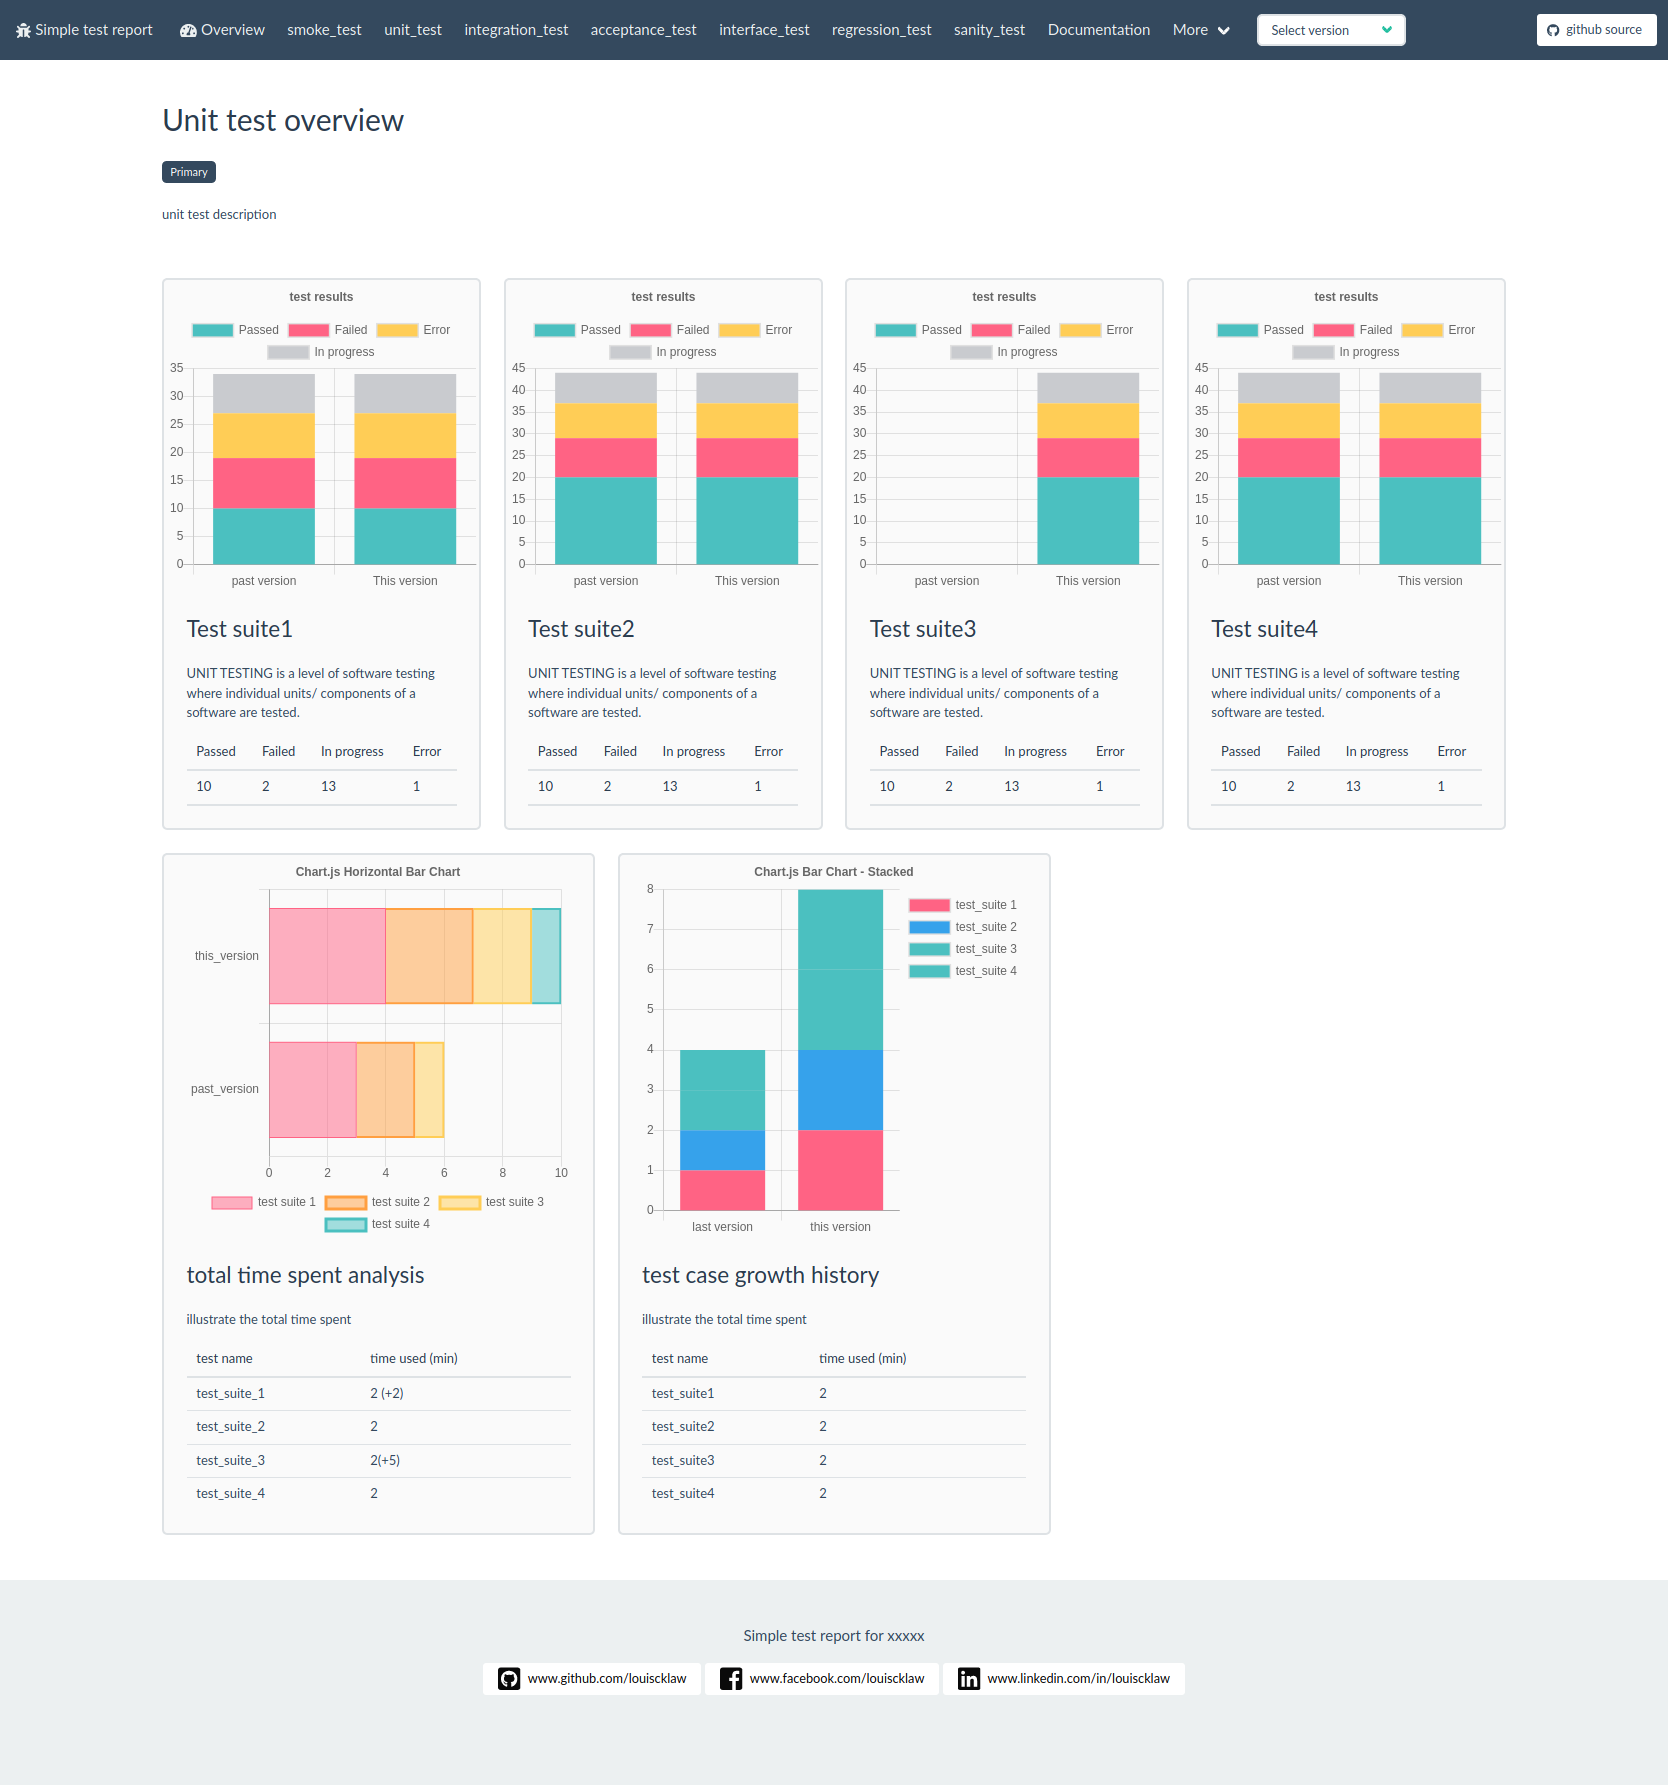
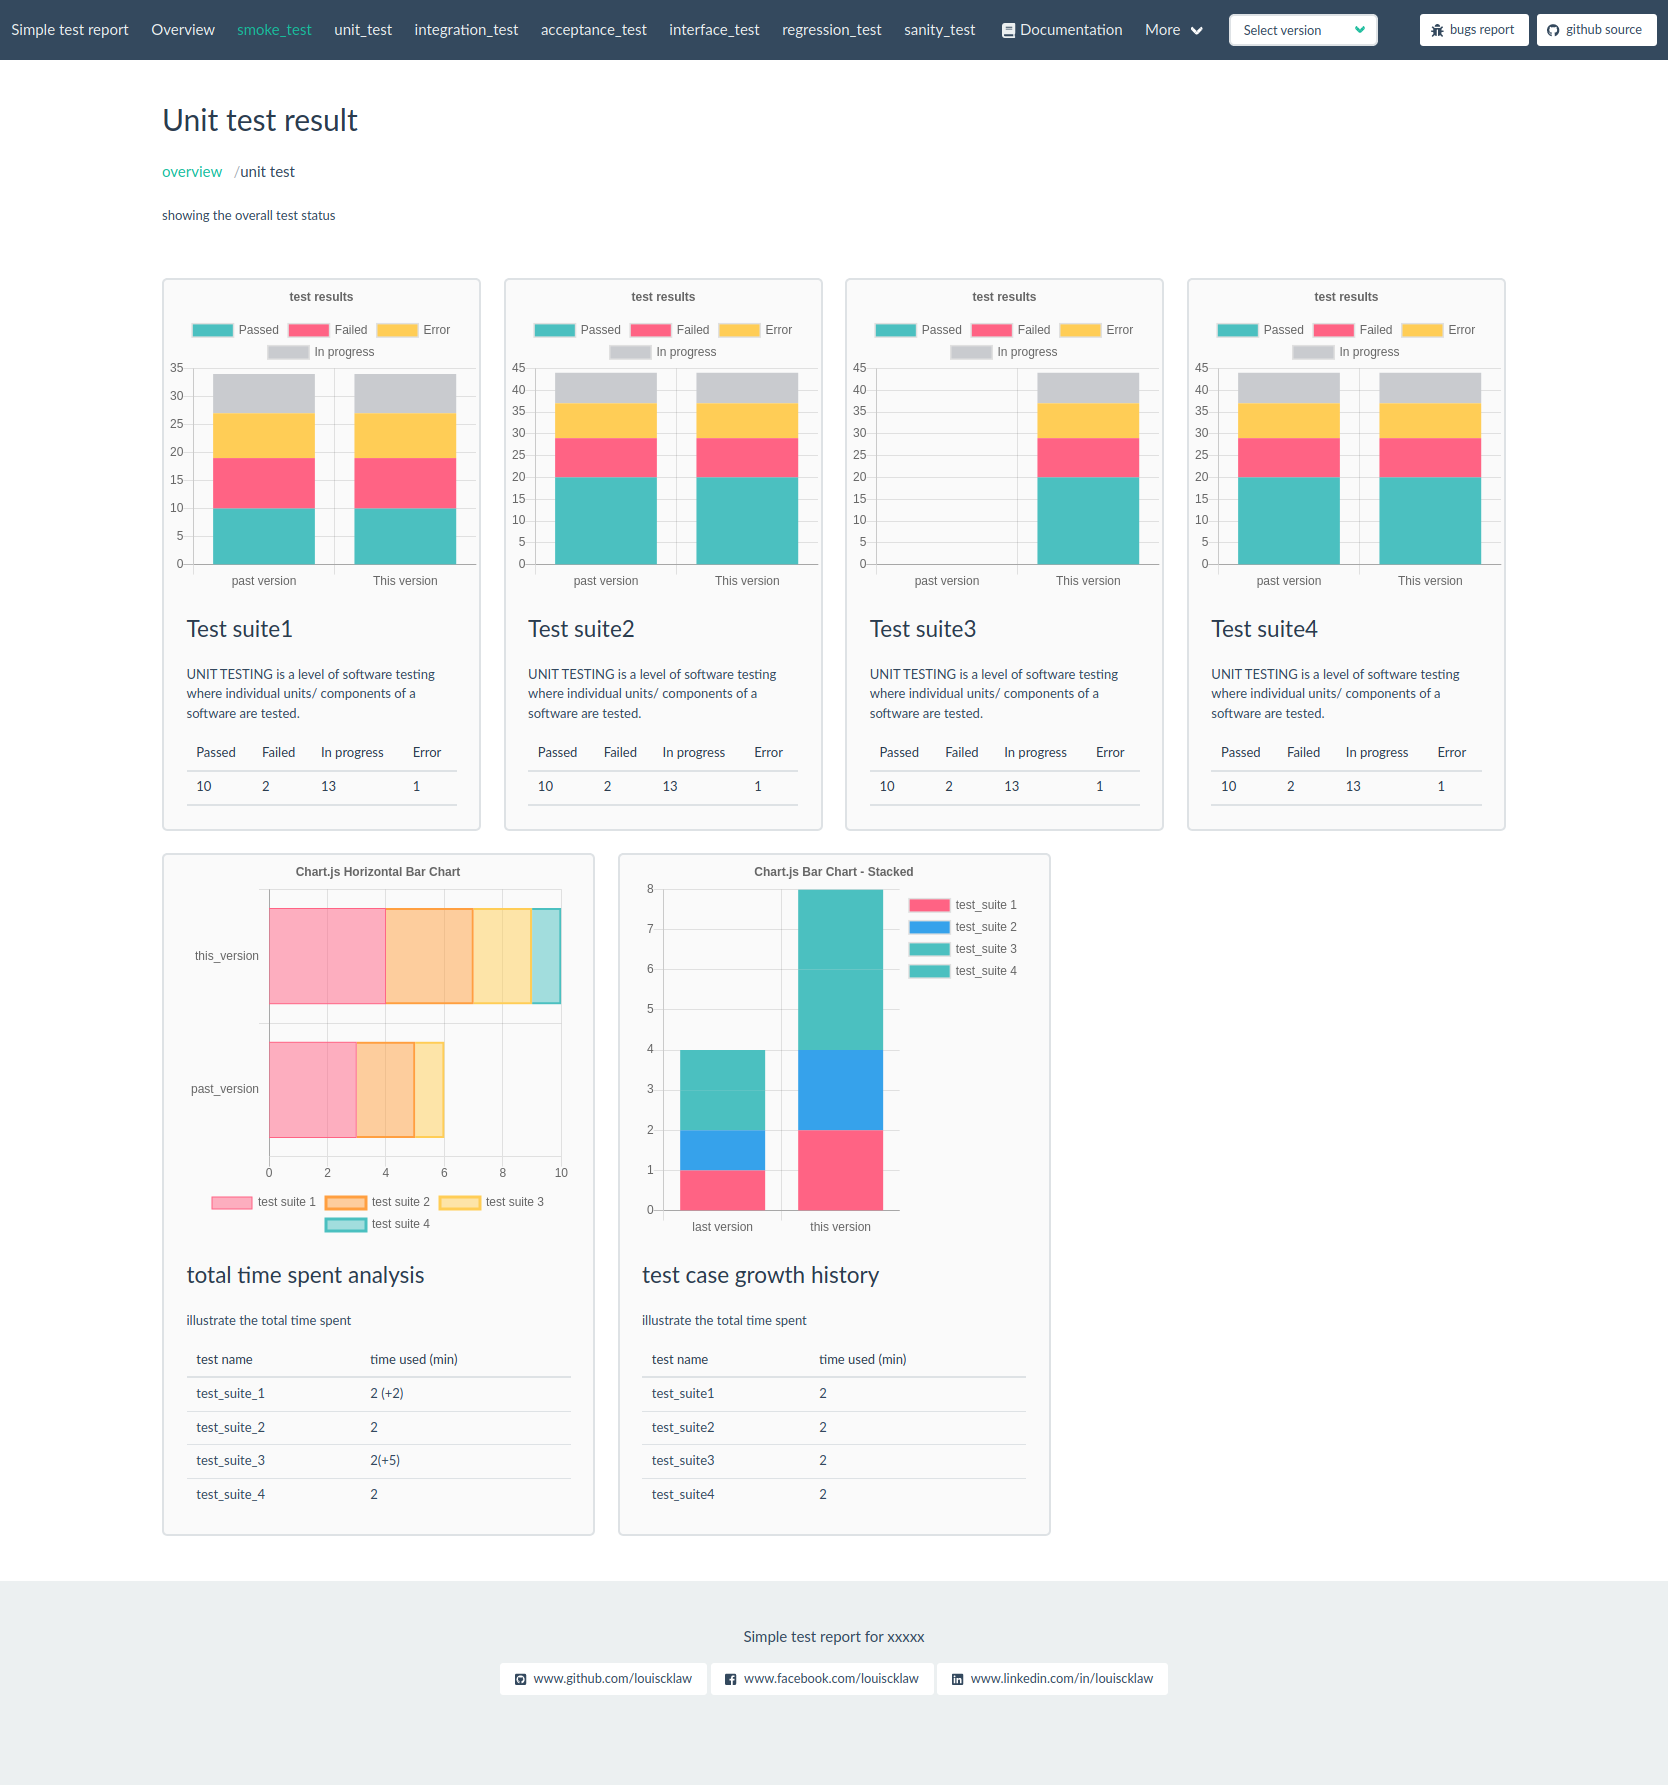
update and test,

diff --git a/report-draft/roadmap.html b/report-draft/roadmap.html
@@ -265,20 +265,19 @@
 
         <p> Simple test report for xxxxx </p>
 
-        <a class="button is-small is-white" href="//www.github.com/louiscklaw" target="_blank">
-          <i class="fab fa-github-square fa-2x"></i>
+        <a class="button is-primary is-inverted is-small" href="//www.github.com/louiscklaw" target="_blank">
+          <i class="fab fa-github-square"></i>
           <span style="padding-left: 0.5rem;">www.github.com/louiscklaw</span>
         </a>
 
 
-        <a class="button is-small is-white" href="//www.facebook.com/louiscklaw" target="_blank">
-          <i class="fab fa-facebook-square fa-2x"></i>
+        <a class="button is-primary is-inverted is-small" href="//www.facebook.com/louiscklaw" target="_blank">
+          <i class="fab fa-facebook-square"></i>
           <span style="padding-left: 0.5rem;">www.facebook.com/louiscklaw</span>
         </a>
 
-
-        <a class="button is-small is-white" href="//www.linkedin.com/in/louiscklaw" target="_blank">
-          <i class="fab fa-linkedin fa-2x"></i>
+        <a class="button is-primary is-inverted is-small" href="//www.linkedin.com/in/louiscklaw" target="_blank">
+          <i class="fab fa-linkedin"></i>
           <span style="padding-left: 0.5rem;">www.linkedin.com/in/louiscklaw</span>
         </a>
 

diff --git a/report-draft/time_analysis.html b/report-draft/time_analysis.html
@@ -621,20 +621,19 @@
 
         <p> Simple test report for xxxxx </p>
 
-        <a class="button is-small is-white" href="//www.github.com/louiscklaw" target="_blank">
-          <i class="fab fa-github-square fa-2x"></i>
+        <a class="button is-primary is-inverted is-small" href="//www.github.com/louiscklaw" target="_blank">
+          <i class="fab fa-github-square"></i>
           <span style="padding-left: 0.5rem;">www.github.com/louiscklaw</span>
         </a>
 
 
-        <a class="button is-small is-white" href="//www.facebook.com/louiscklaw" target="_blank">
-          <i class="fab fa-facebook-square fa-2x"></i>
+        <a class="button is-primary is-inverted is-small" href="//www.facebook.com/louiscklaw" target="_blank">
+          <i class="fab fa-facebook-square"></i>
           <span style="padding-left: 0.5rem;">www.facebook.com/louiscklaw</span>
         </a>
 
-
-        <a class="button is-small is-white" href="//www.linkedin.com/in/louiscklaw" target="_blank">
-          <i class="fab fa-linkedin fa-2x"></i>
+        <a class="button is-primary is-inverted is-small" href="//www.linkedin.com/in/louiscklaw" target="_blank">
+          <i class="fab fa-linkedin"></i>
           <span style="padding-left: 0.5rem;">www.linkedin.com/in/louiscklaw</span>
         </a>
 

diff --git a/report-draft/test-report-content.html b/report-draft/test-report-content.html
@@ -733,19 +733,19 @@
 
         <p> Simple test report for xxxxx </p>
 
-        <a class="button is-small is-white" href="//www.github.com/louiscklaw" target="_blank">
-          <i class="fab fa-github-square fa-2x"></i>
+        <a class="button is-primary is-inverted is-small" href="//www.github.com/louiscklaw" target="_blank">
+          <i class="fab fa-github-square"></i>
           <span style="padding-left: 0.5rem;">www.github.com/louiscklaw</span>
         </a>
 
 
-        <a class="button is-small is-white" href="//www.facebook.com/louiscklaw" target="_blank">
-          <i class="fab fa-facebook-square fa-2x"></i>
+        <a class="button is-primary is-inverted is-small" href="//www.facebook.com/louiscklaw" target="_blank">
+          <i class="fab fa-facebook-square"></i>
           <span style="padding-left: 0.5rem;">www.facebook.com/louiscklaw</span>
         </a>
 
-        <a class="button is-small is-white" href="//www.linkedin.com/in/louiscklaw" target="_blank">
-          <i class="fab fa-linkedin fa-2x"></i>
+        <a class="button is-primary is-inverted is-small" href="//www.linkedin.com/in/louiscklaw" target="_blank">
+          <i class="fab fa-linkedin"></i>
           <span style="padding-left: 0.5rem;">www.linkedin.com/in/louiscklaw</span>
         </a>
 

diff --git a/report-draft/dashboard.html b/report-draft/dashboard.html
@@ -709,19 +709,18 @@
         <p> Simple test report for xxxxx </p>
 
         <a class="button is-primary is-inverted is-small" href="//www.github.com/louiscklaw" target="_blank">
-          <i class="fab fa-github-square fa-2x"></i>
+          <i class="fab fa-github-square"></i>
           <span style="padding-left: 0.5rem;">www.github.com/louiscklaw</span>
         </a>
 
 
         <a class="button is-primary is-inverted is-small" href="//www.facebook.com/louiscklaw" target="_blank">
-          <i class="fab fa-facebook-square fa-2x"></i>
+          <i class="fab fa-facebook-square"></i>
           <span style="padding-left: 0.5rem;">www.facebook.com/louiscklaw</span>
         </a>
 
-
         <a class="button is-primary is-inverted is-small" href="//www.linkedin.com/in/louiscklaw" target="_blank">
-          <i class="fab fa-linkedin fa-2x"></i>
+          <i class="fab fa-linkedin"></i>
           <span style="padding-left: 0.5rem;">www.linkedin.com/in/louiscklaw</span>
         </a>
 
